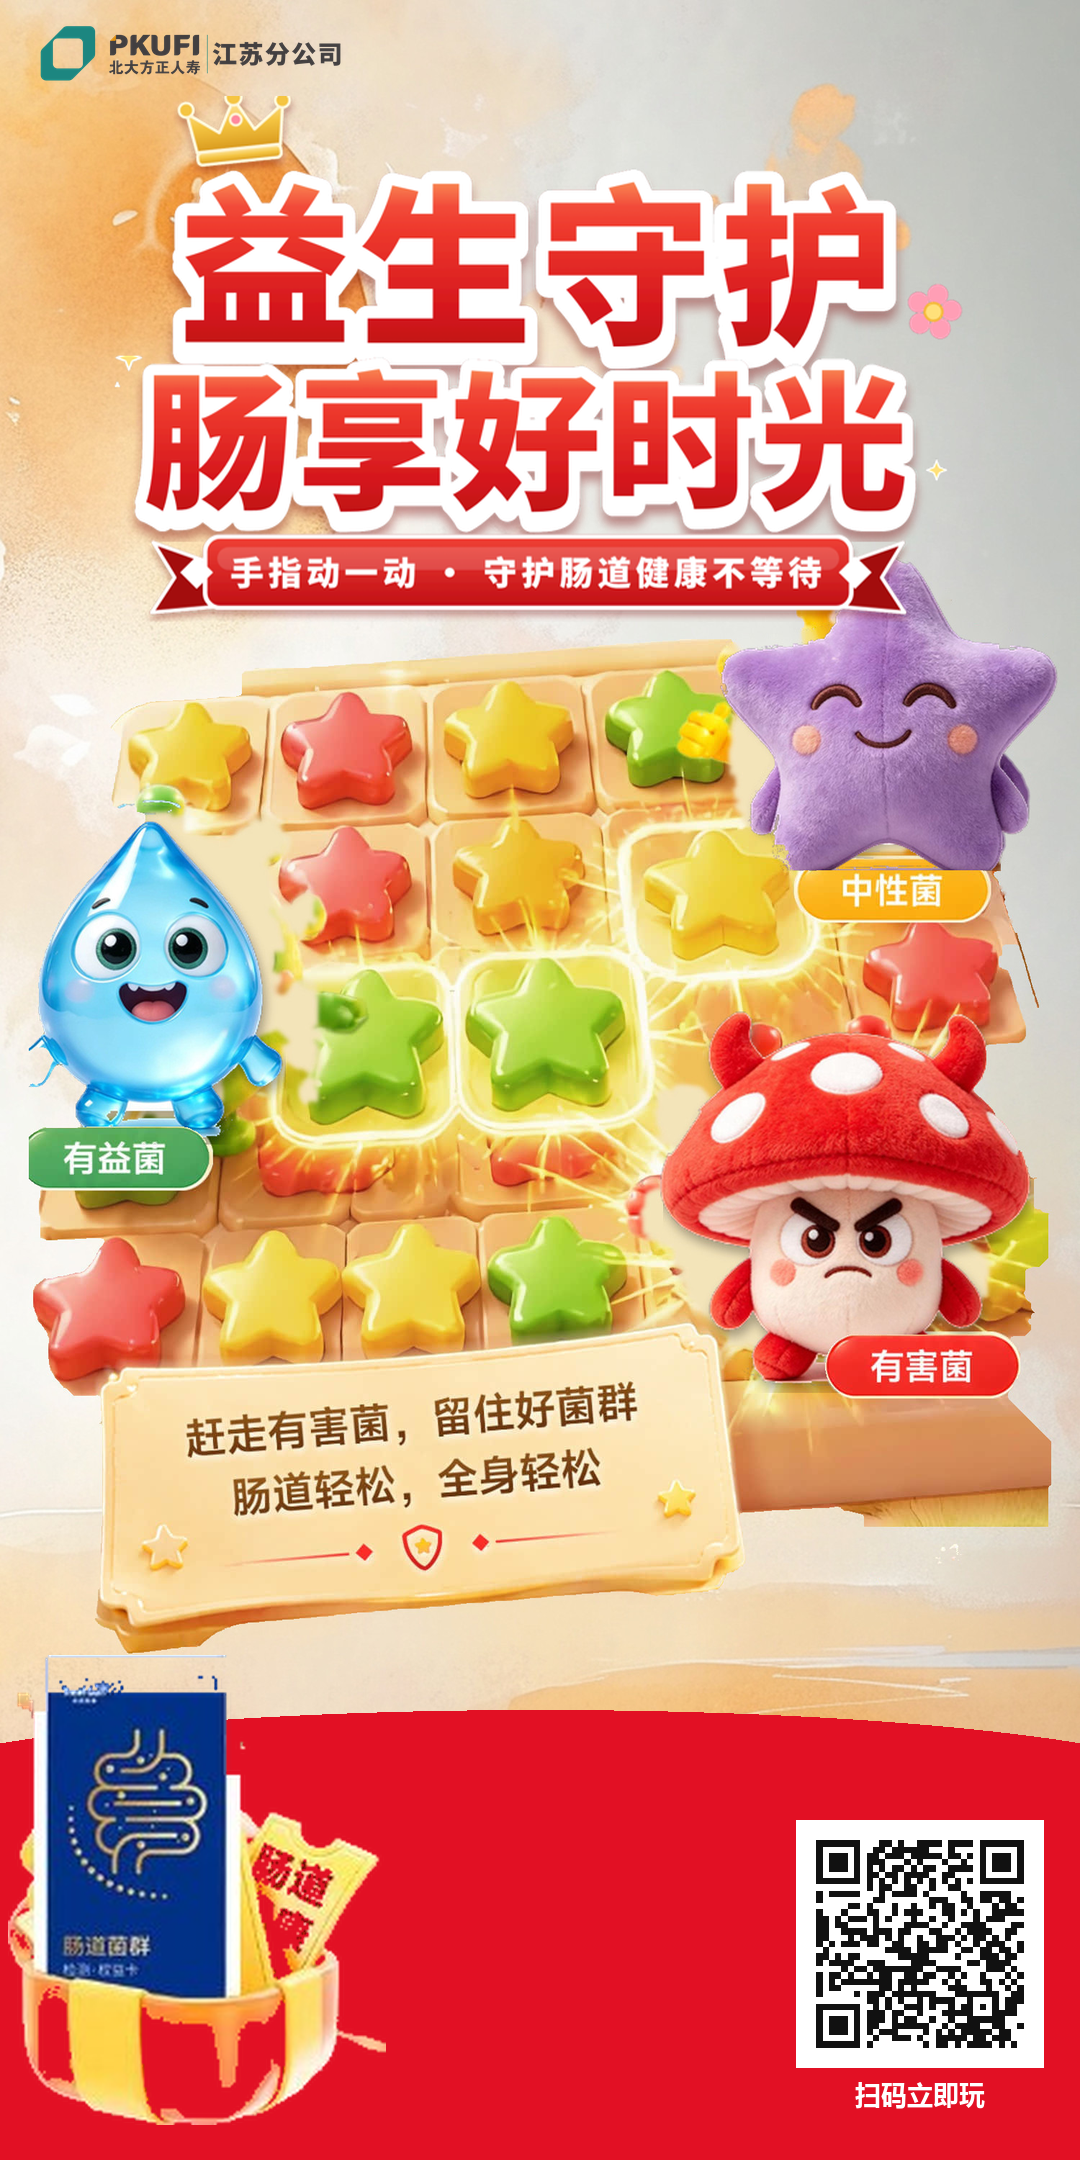
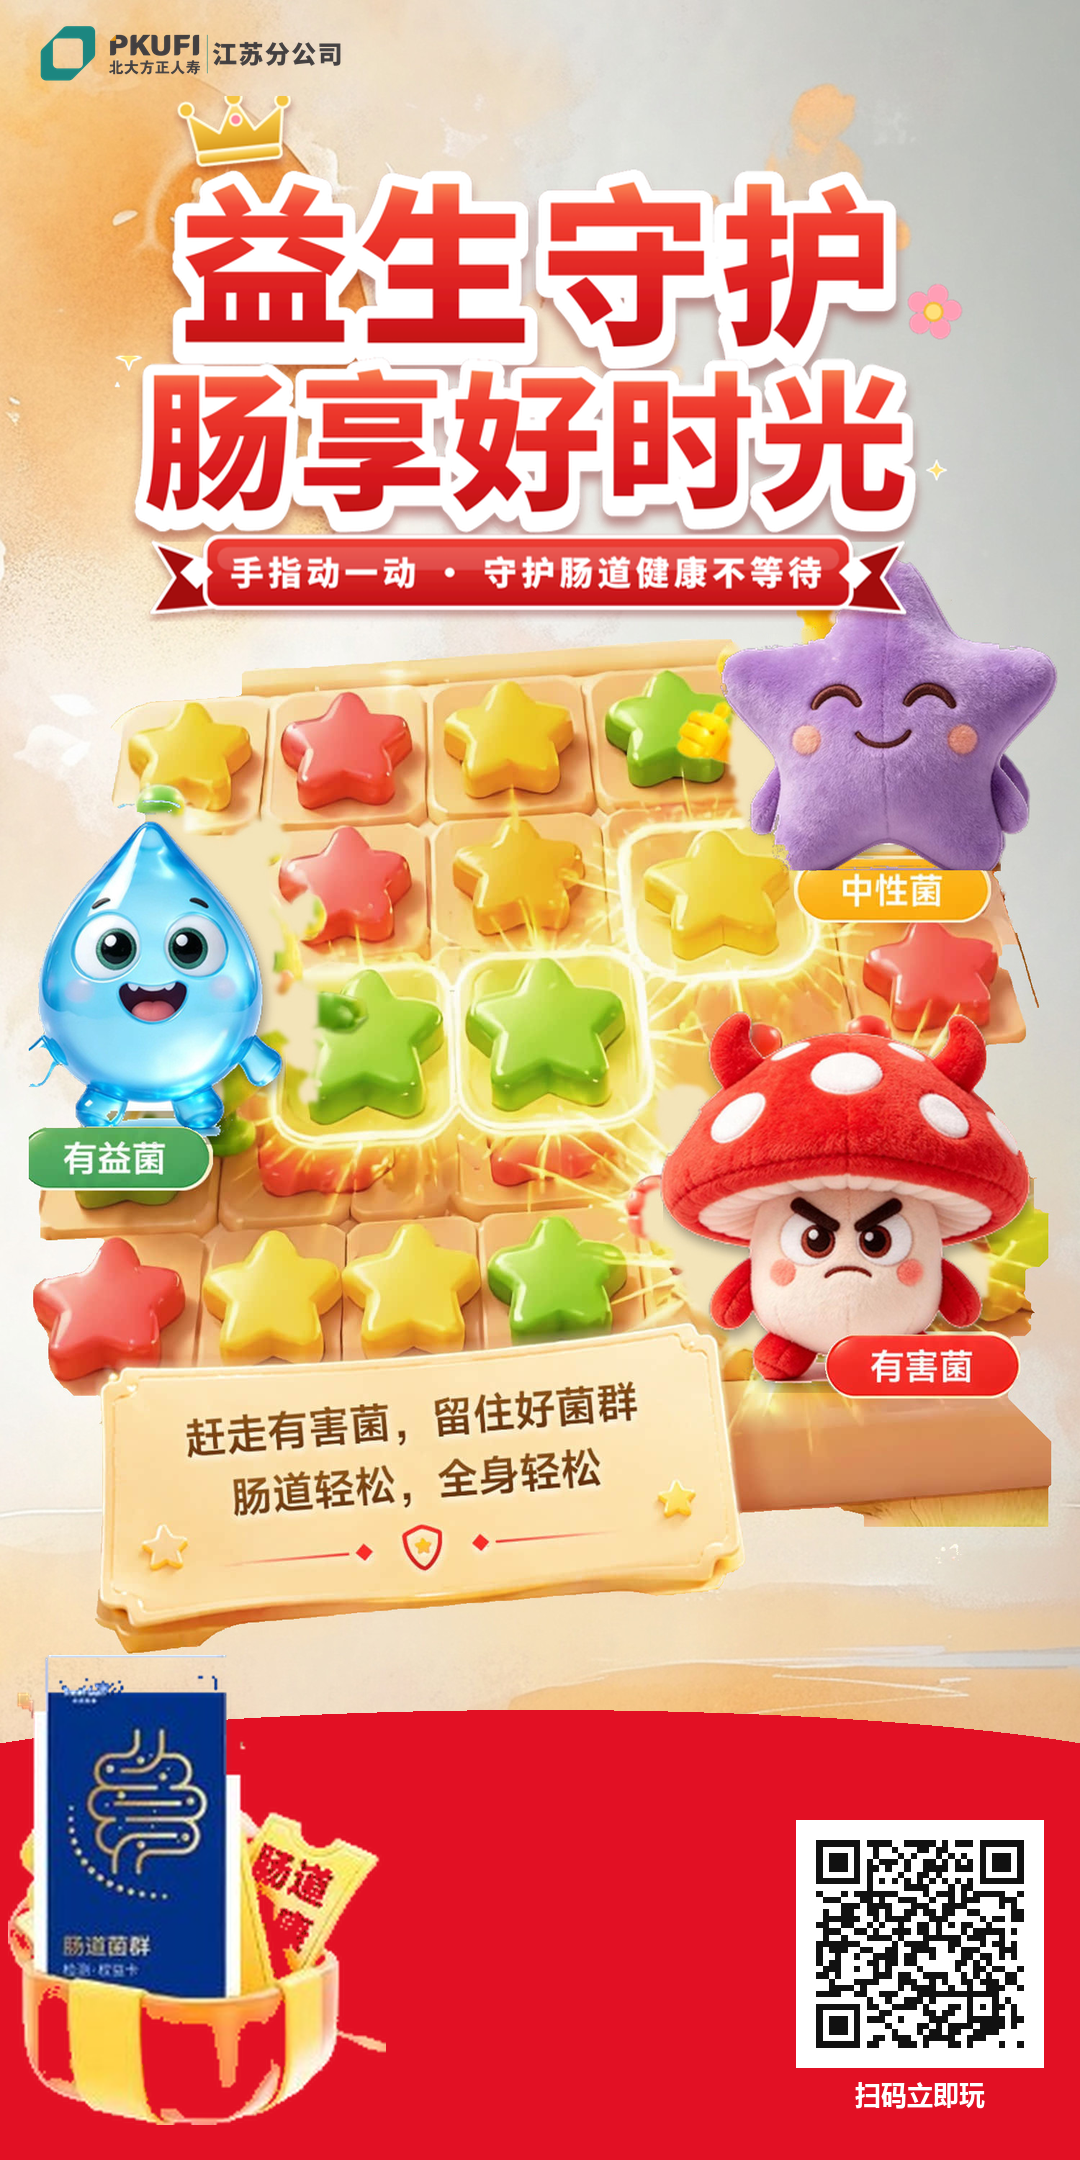
Keep the rules disclaimer on the card so the company name stays opaque.

Changed region(s): [[0.7333, 0.8375, 0.9472, 0.9616]]

diff --git a/index.html b/index.html
@@ -7,7 +7,7 @@
   <meta http-equiv="Expires" content="0" />
   <meta name="viewport" content="width=device-width, user-scalable=no, initial-scale=1, maximum-scale=1, viewport-fit=cover" />
   <title>益生守护 肠享好时光</title>
-  <link rel="stylesheet" href="css/game.css?v=18" />
+  <link rel="stylesheet" href="css/game.css?v=19" />
 </head>
 <body>
   <div class="phone" id="phone">
@@ -21,7 +21,7 @@
     <div class="side-tabs">
       <button type="button" data-action="rules"><img src="assets/static/image/tab_rules.2280077b.png" alt="活动规则" /></button>
     </div>
-    <img class="theme" src="assets/static/image/theme.24d3b741.png?v=18" alt="益生守护 肠享好时光" />
+    <img class="theme" src="assets/static/image/theme.24d3b741.png?v=19" alt="益生守护 肠享好时光" />
     <button class="start-btn" type="button" data-action="start"><img src="assets/static/image/start.416fb9e8.png" alt="开始游戏" /></button>
   </section>
 
@@ -59,8 +59,8 @@
     <img class="logo" src="image/logo.png" alt="北大方正人寿江苏分公司" />
     <div id="result-title" class="result-title win"></div>
     <div class="score-card">
-      <div class="score-line"><img src="assets/static/image/bad.e7701dce.png?v=18" alt="" /><span>成功消除有害菌</span><b id="result-bad">0个</b></div>
-      <div class="score-line"><img src="assets/static/image/good2.0b5e797e.png?v=18" alt="" /><span>成功守护有益菌</span><b id="result-good">0个</b></div>
+      <div class="score-line"><img src="assets/static/image/bad.e7701dce.png?v=19" alt="" /><span>成功消除有害菌</span><b id="result-bad">0个</b></div>
+      <div class="score-line"><img src="assets/static/image/good2.0b5e797e.png?v=19" alt="" /><span>成功守护有益菌</span><b id="result-good">0个</b></div>
       <div class="score-line"><span>得分</span><b id="result-score">0</b></div>
       <div id="result-rank-block" class="rank-card">
         <img id="result-rank-img" class="badge" alt="" />
@@ -71,7 +71,7 @@
     <div class="book" id="result-book">
       <div id="result-knowledge" class="knowledge"></div>
     </div>
-    <button id="btn-manager" class="manager-btn" type="button"><img src="assets/static/image/btn_manager.png?v=18" alt="联系你的客户经理领好礼" /></button>
+    <button id="btn-manager" class="manager-btn" type="button"><img src="assets/static/image/btn_manager.png?v=19" alt="联系你的客户经理领好礼" /></button>
     <div class="actions">
       <button id="btn-again" type="button" data-action="again"><img src="assets/static/image/btn_again.a8b01706.png" alt="再来一次" /></button>
       <button id="btn-next" type="button" data-action="next"><img src="assets/static/image/btn_next.547c6ce5.png" alt="下一关" /></button>
@@ -83,7 +83,7 @@
 
   <section id="howto" class="overlay howto" hidden>
     <div class="howto-card">
-      <img class="rules" src="assets/static/image/game_rules.b7cd129a.png?v=18" alt="游戏规则" />
+      <img class="rules" src="assets/static/image/game_rules.b7cd129a.png?v=19" alt="游戏规则" />
       <img class="finger" src="assets/static/image/finger.2957c077.png" alt="" />
     </div>
     <button type="button" data-action="howto-go"><img class="howto-go" src="assets/static/image/start.766e35a5.png" alt="开始" /></button>
@@ -122,7 +122,7 @@
 
   <div id="toast" class="toast" hidden></div>
   </div>
-  <script src="js/engine.js?v=18"></script>
-  <script src="js/app.js?v=18"></script>
+  <script src="js/engine.js?v=19"></script>
+  <script src="js/app.js?v=19"></script>
 </body>
 </html>

diff --git a/css/game.css b/css/game.css
@@ -33,8 +33,8 @@ button, img { user-select: none; }
 button { border: 0; padding: 0; background: transparent; cursor: pointer; }
 .screen, .overlay { position: absolute; inset: 0; }
 .screen { min-height: 100%; background-position: center top; background-size: cover; background-repeat: no-repeat; }
-#home { background-image: url("../assets/static/image/bg-home.jpg?v=18"); }
-#game { background-image: url("../assets/static/image/bg-game.jpg?v=18"); overflow: auto; }
+#home { background-image: url("../assets/static/image/bg-home.jpg?v=19"); }
+#game { background-image: url("../assets/static/image/bg-game.jpg?v=19"); overflow: auto; }
 #rank { background-image: url("../assets/static/image/bg.22ba2e11.jpg"); overflow: auto; }
 #poster { background-image: url("../assets/static/image/bg.9fb073bd.jpg"); overflow: auto; }
 #loading {
@@ -175,6 +175,8 @@ button { border: 0; padding: 0; background: transparent; cursor: pointer; }
 .actions img { height: 1.05rem; width: auto; }
 
 .howto, .sheet { display: flex; align-items: center; justify-content: center; flex-direction: column; }
+.sheet { justify-content: flex-start; }
+.sheet > button { flex-shrink: 0; }
 .howto-card { width: 4.98rem; position: relative; }
 .howto-card > img.rules { width: 100%; height: auto; }
 .finger {
@@ -184,6 +186,7 @@ button { border: 0; padding: 0; background: transparent; cursor: pointer; }
 .howto-go { width: 4.39rem; margin-top: .12rem; }
 .sheet-frame {
   width: 6.59rem; min-height: 7.49rem; padding: 1.9rem .4rem .4rem;
+  flex-shrink: 0; margin-top: auto; margin-bottom: auto;
   background-position: center; background-size: 100% 100%; background-repeat: no-repeat;
 }
 .sheet-frame img { width: 100%; height: auto; }

diff --git a/js/app.js b/js/app.js
@@ -3,11 +3,11 @@ const MEDIA = "assets/static/media/";
 const LOGO = "image/logo.png";
 
 const TILES = {
-  1: IMG + "bad.e7701dce.png?v=18",
-  2: IMG + "good1.bec550f3.png?v=18",
-  3: IMG + "good2.0b5e797e.png?v=18",
-  4: IMG + "grape.ec727821.png?v=18",
-  5: IMG + "carrot.85a5d31e.png?v=18",
+  1: IMG + "bad.e7701dce.png?v=19",
+  2: IMG + "good1.bec550f3.png?v=19",
+  3: IMG + "good2.0b5e797e.png?v=19",
+  4: IMG + "grape.ec727821.png?v=19",
+  5: IMG + "carrot.85a5d31e.png?v=19",
 };
 
 const ROUND_TITLE = [
@@ -224,7 +224,7 @@ function renderRank() {
 
 function renderModal() {
   const map = {
-    rules: { title: IMG + "tab_rules.2280077b.png", body: IMG + "rules.d30d95b1.png?v=18", frame: IMG + "bg_modal2.f6c41725.png" },
+    rules: { title: IMG + "tab_rules.2280077b.png", body: IMG + "rules.d30d95b1.png?v=19", frame: IMG + "bg_modal2.f6c41725.png" },
     prize: { title: IMG + "tab_prize.50b50917.png", body: IMG + "tab_prize.50b50917.png", frame: IMG + "bg_modal1.90a830b4.png" },
     protocol: { title: IMG + "title_rules.d6d6c7d2.png", body: IMG + "protocol.e3577188.png", frame: IMG + "bg_modal3.3d7bc8c7.png" },
   };

diff --git a/js/engine.js b/js/engine.js
@@ -16,7 +16,7 @@ const RANKS = [
     min: 750,
     name: "益生守护卫士",
     stars: 5,
-    image: "rank1.89c06a4f.png?v=18",
+    image: "rank1.89c06a4f.png?v=19",
     tag: "tag1.d8ae3d69.png",
     comment: "你的菌群管理能力堪称大师级！好菌队伍壮大、坏菌无处藏身。继续保持，好好爱自己，好好爱肠道",
   },

diff --git a/make_poster.py b/make_poster.py
@@ -5,7 +5,7 @@ import qrcode
 from PIL import Image, ImageDraw, ImageFont
 
 ROOT = os.path.dirname(os.path.abspath(__file__))
-PLAY_URL = os.environ.get("PLAY_URL", "https://hua691.github.io/gut-match3-play/?v=18")
+PLAY_URL = os.environ.get("PLAY_URL", "https://hua691.github.io/gut-match3-play/?v=19")
 OUT = os.path.join(ROOT, "海报.png")
 
 W, H = 1080, 2160
